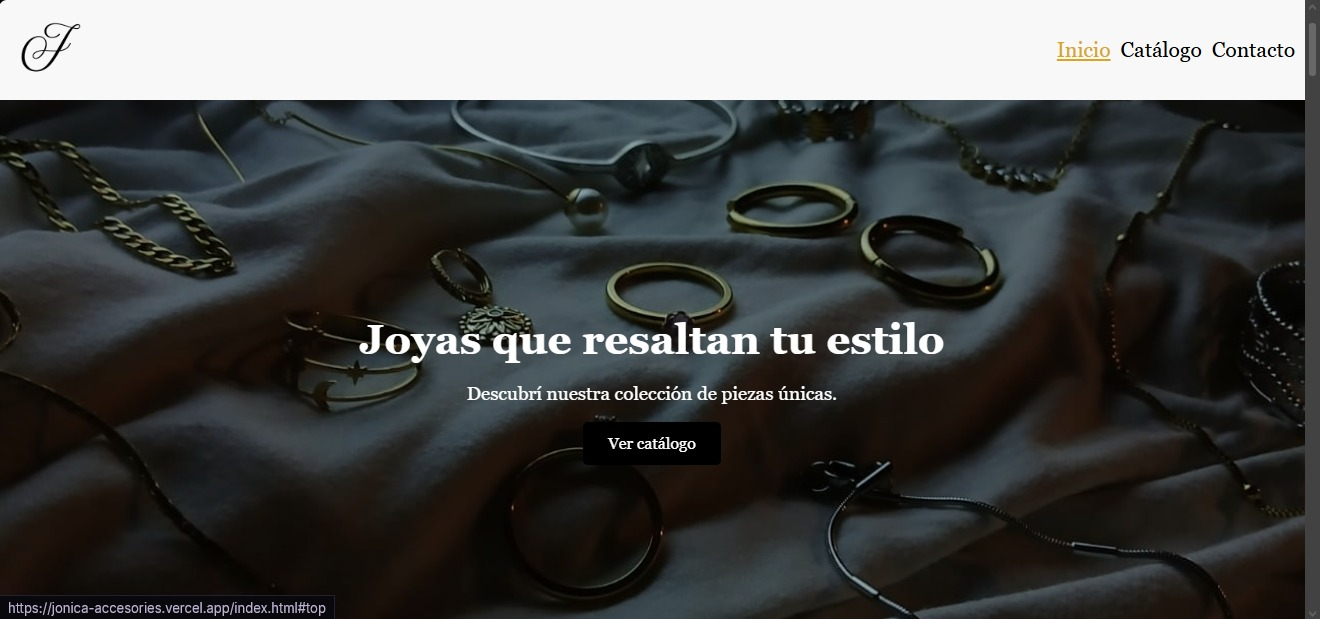
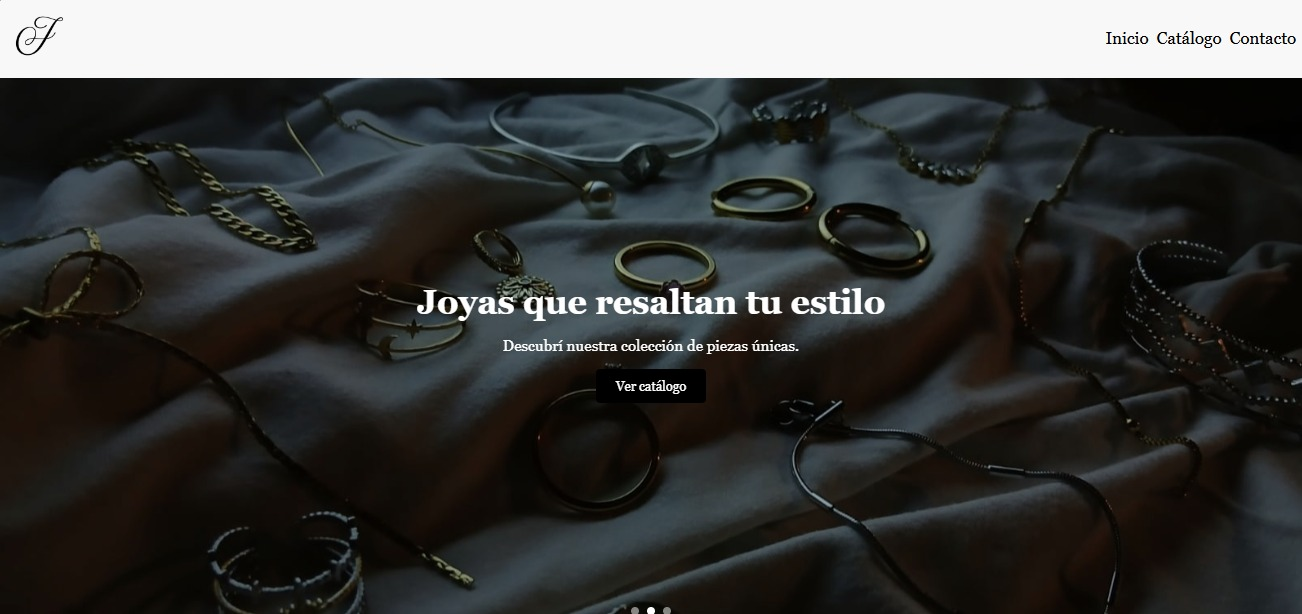
cambio de proyectos

diff --git a/index.html b/index.html
@@ -178,8 +178,8 @@
 
         <div class="projects-container">
 
-            <!-- Proyecto 1 -->
-            <div class="project-card autoShow">
+            <!-- Proyecto PZ -->
+            <!-- <div class="project-card autoShow">
                 <span class="tag">Cliente real</span>
                 <img src="media/cap-pzteam.jpeg" alt="PZ Team">
 
@@ -198,16 +198,16 @@
 
                     <!-- <p class="tech">
                         HTML · CSS · Responsive
-                    </p> -->
+                    </p>
 
                     <div class="project-buttons">
                         <a href="https://pz-team.vercel.app/index.html#top">Ver página</a>
                     </div>
                 </div>
-            </div>
+            </div> -->
 
-            <!-- Proyecto 2 -->
-            <div class="project-card autoShow">
+            <!-- Proyecto Fernanda -->
+            <!-- <div class="project-card autoShow">
                 <span class="tag">Cliente real</span>
                 <img src="media/cap-fernanda.jpeg" alt="Estudio contable">
 
@@ -227,13 +227,15 @@
 
                     <!-- <p class="tech">
                         HTML · CSS · Responsive
-                    </p> -->
+                    </p>
 
                     <div class="project-buttons">
                         <a href="https://estudiocontablebutiuk.vercel.app">Ver página</a>
                     </div>
                 </div>
-            </div>
+            </div> -->
+
+            <!-- Proyecto Bere -->
 
             <div class="project-card autoShow">
                 <span class="tag">Cliente real</span>
@@ -258,6 +260,33 @@
 
                     <div class="project-buttons">
                         <a href="https://jonica-accesories.vercel.app/index.html#top" target="_blank">Ver página</a>
+                    </div>
+                </div>
+            </div>
+
+            <div class="project-card autoShow">
+                <span class="tag">Cliente real</span>
+                <img src="media/cap-zl.jpeg" alt="Estudio Contable">
+
+                <div class="project-content">
+                    <h3>Estudio Contable – Proyecto en desarrollo</h3>
+                    <p>
+                        Diseño y desarrollo de una presencia digital orientada a comunicar el diferencial del estudio y
+                        generar nuevas oportunidades comerciales.
+                    </p>
+
+                    <div class="result">
+                        <p>✔ Optimizado para celulares</p>
+                        <p>✔ Enfocado en aumentar consultas</p>
+                        <p>✔ Formulario de Contacto</p>
+                    </div>
+
+                    <!-- <p class="tech">
+                        HTML · CSS · Responsive
+                    </p> -->
+
+                    <div class="project-buttons">
+                        <a href="https://estudio-contable-zusser-lionetto.vercel.app/" target="_blank">Ver página</a>
                     </div>
                 </div>
             </div>
